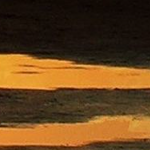
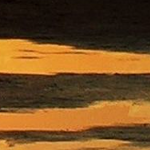
WIP

diff --git a/generate.go b/generate.go
@@ -33,7 +33,7 @@ func main() {
 
 			// Crop the image
 			x := ((i+1) * 76.0) + (i * 150.0)
-			y := 192.0 + (j * 150.0) + (j * 115.0)
+			y := 192.0 + (j * 150.0) + (j * 118.0)
 			cropArg := fmt.Sprintf("crop=150:150:%d:%d", x, y)
 			cmd = exec.Command("ffmpeg", "-i", "wallpaper_scaled.png", "-vf", cropArg, fileName)
 			var stderr bytes.Buffer
